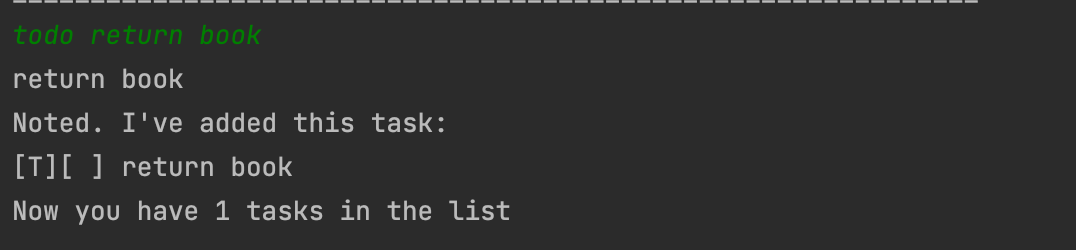
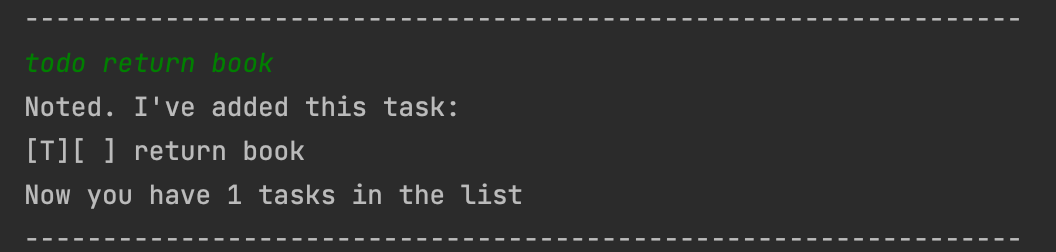
New images

diff --git a/src/main/java/duke/taskList/TaskList.java b/src/main/java/duke/taskList/TaskList.java
@@ -65,7 +65,6 @@ public class TaskList {
      */
     public void addTodo(String input) {
         String todo = input.substring(input.indexOf(" ") + 1);
-        System.out.println(todo);
         taskList.add(new Todo(todo));
         Ui.printTaskAdd();
         System.out.println(taskList.get(taskList.size()-1));

diff --git a/docs/README.md b/docs/README.md
@@ -98,3 +98,6 @@ Close the Duke program
 - Format: `bye`
 
 ![](BYE.png)
+
+## Manually editing the date file
+You could manually edit the `duke.txt` as well, the program will be able to capture the changes the next time it runs.
